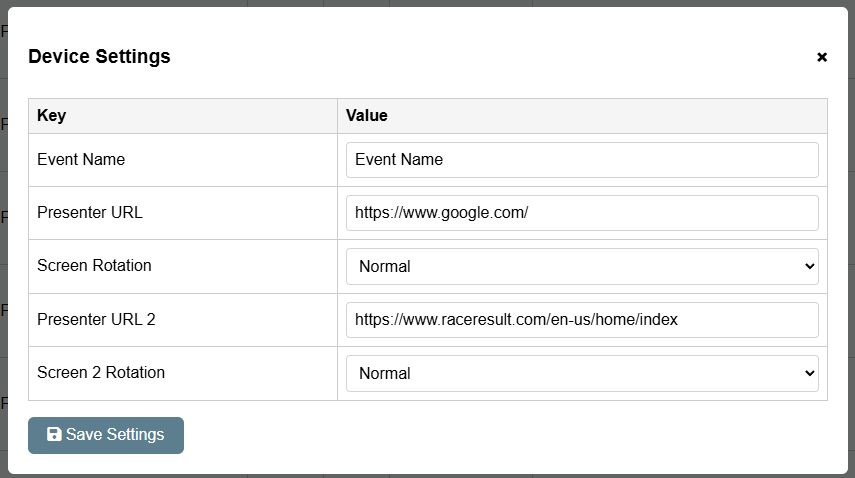
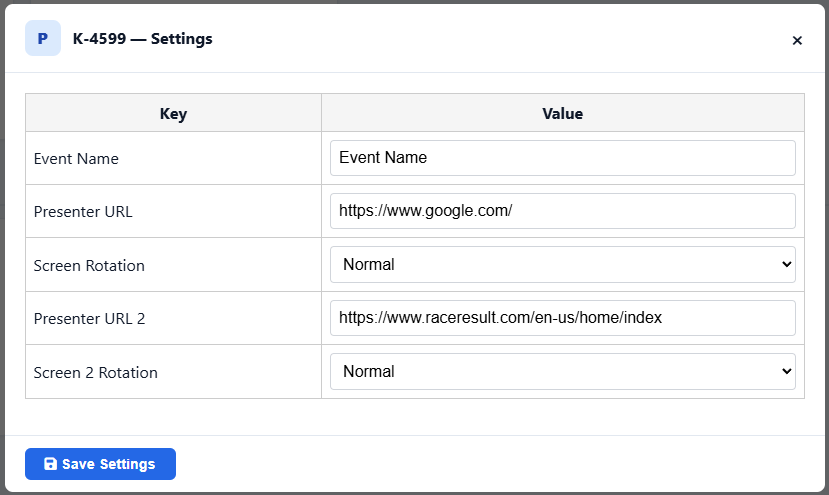
Fixed customerID loading in presenter.py

Changed region(s): [[0.0, 0.0, 0.9952, 0.9958], [0.1809, 0.205, 0.2413, 0.2636]]

diff --git a/presenter.py b/presenter.py
@@ -60,7 +60,7 @@ def get_customer_id():
             return f.read().strip()
     else:
         customerID = "0"
-        with open(DEVICE_ID_FILE, "w") as f:
+        with open(CUSTOMER_ID_FILE, "w") as f:
             f.write(customerID)
         return customerID   
 

diff --git a/README.md b/README.md
@@ -33,6 +33,8 @@ A button can be added between GPIO 17 (pin 11 on the Pi) and Ground. This button
 
 This [Raspberry Pi 4 Case](https://www.amazon.com/dp/B07Y7W3GFH?ref_=ppx_hzsearch_conn_dt_b_fed_asin_title_2) can be used with the [Kiosk Pi Case.STL](</assets/3D_Files/Kiosk Pi Case.STL>) to add a button to Pi4 easily.
 
+![Pi4 Case Top](/assets/images/CaseTop.png)
+
 ## How to configure kiosk settings
 Navigate to [rrdev.brycelongacre.com/tools-new](https://rrdev.brycelongacre.com/tools-new/) and register an account. Once registered, login and navigate to Kiosk on the left. Here you will see a list of all Kiosk devices that have connected to your account. Selecting Settings will open a window where you can change settings for the device.
 